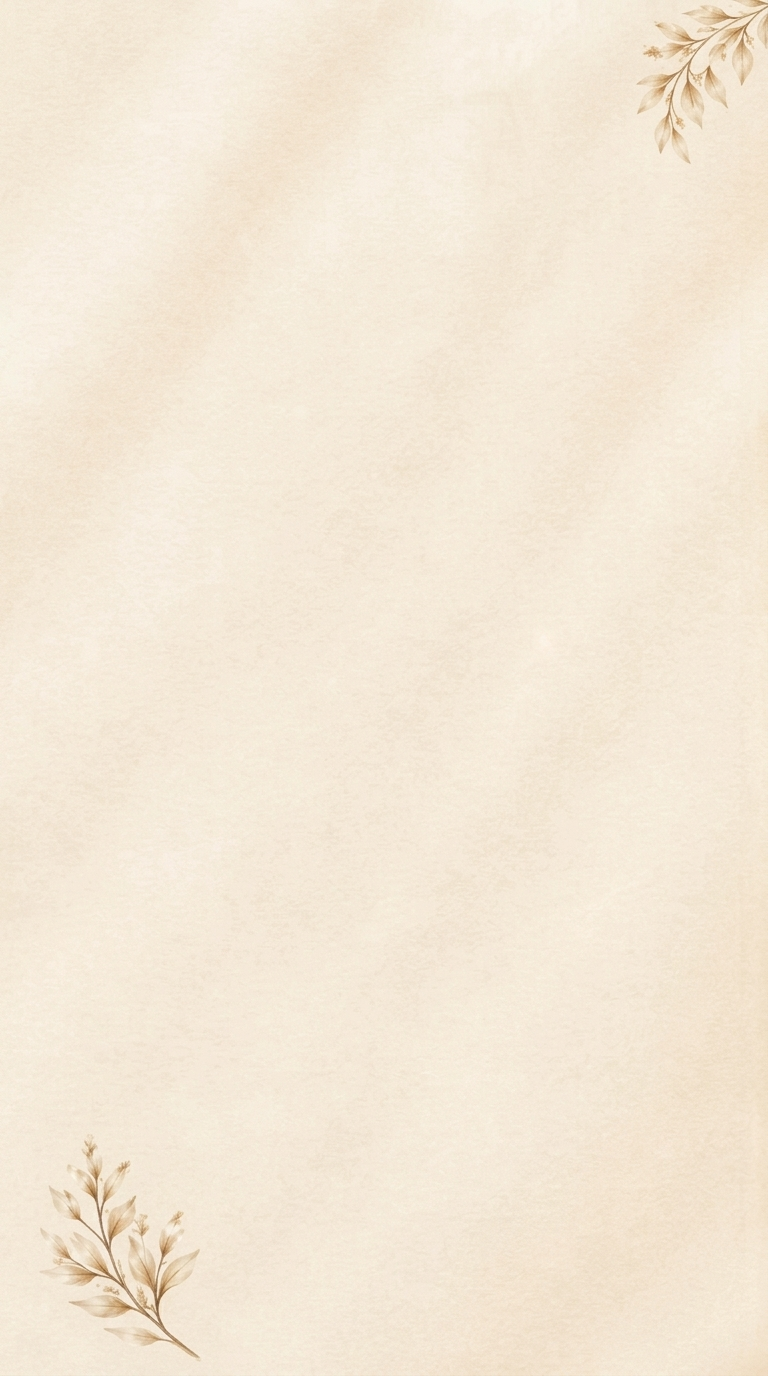
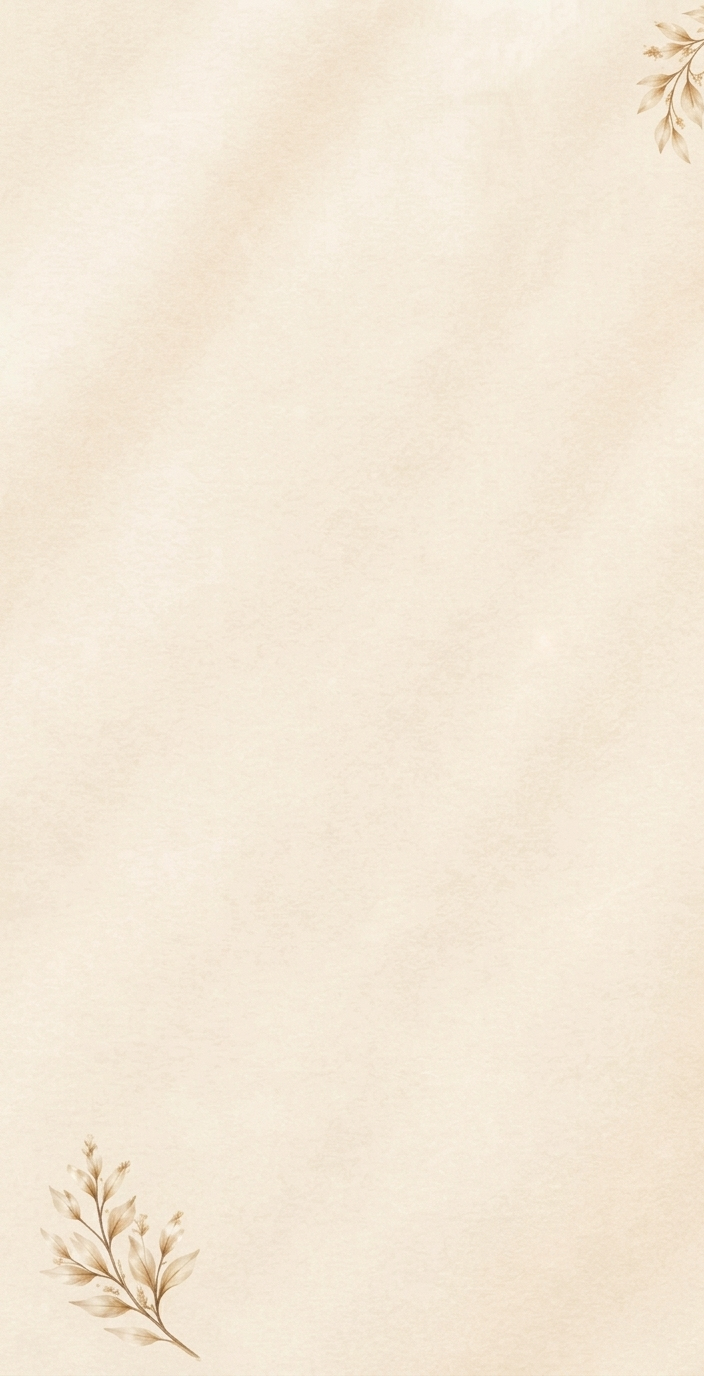
first commitnn

Changed region(s): [[0.0625, 0.8125, 0.2812, 1.0], [0.8438, 0.0, 1.0, 0.125]]

diff --git a/index.html b/index.html
@@ -85,7 +85,7 @@
             width: 100%;
             max-width: 430px;
             min-height: 100vh;
-            background: url('t.png') no-repeat center center;
+            background: url('Tarjeta\ botánica\ minimalista\ en\ marfil.png') no-repeat center center;
             background-size: cover;
             display: flex;
             flex-direction: column;
@@ -1233,7 +1233,7 @@
 
 </section>
 <!-- FIN SECCIÓN REGALOS -->
-```
+
         <!-- SECCIÓN 6: RSVP (CONFIRMACIÓN DE ASISTENCIA ELEGANTE) -->
         <section class="section-rsvp">
             <div class="rsvp-kindly">POR FAVOR</div>
